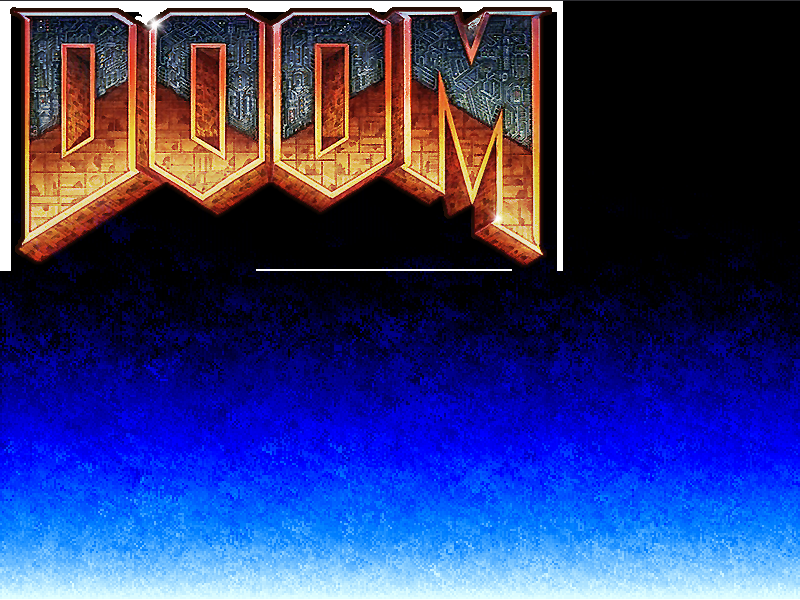
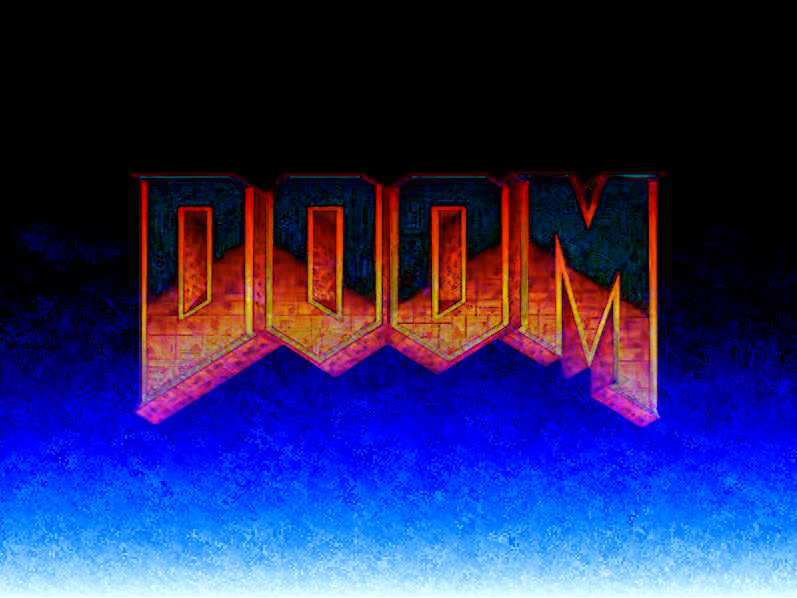
final version 1.0   random color coming   last step

diff --git a/groove_rasterizer/rasterizer.h b/groove_rasterizer/rasterizer.h
@@ -267,15 +267,11 @@ private:
                     size_t new_x = (x +  rnd - 2 ) % fire_matrix_width;
                     fire_matrix[ 4 + new_x +  fire_matrix_width * ( y - 1 )  ] = new_index ;
                 }
-               else{
-                    float rnd = float(distrib(gen) * 100 )/3.;
-                    if ( rnd < .1f)
-                    {
-                        fire_matrix[ 4 + x  +  fire_matrix_width * ( y - 1) ] =  0 ;
-                    }
-                    else{
+               else
+               {
+
                         fire_matrix[ 4 + x  +  fire_matrix_width * ( y - 1) ] =  last_index ;
-                    }
+
                }
             }
         }
